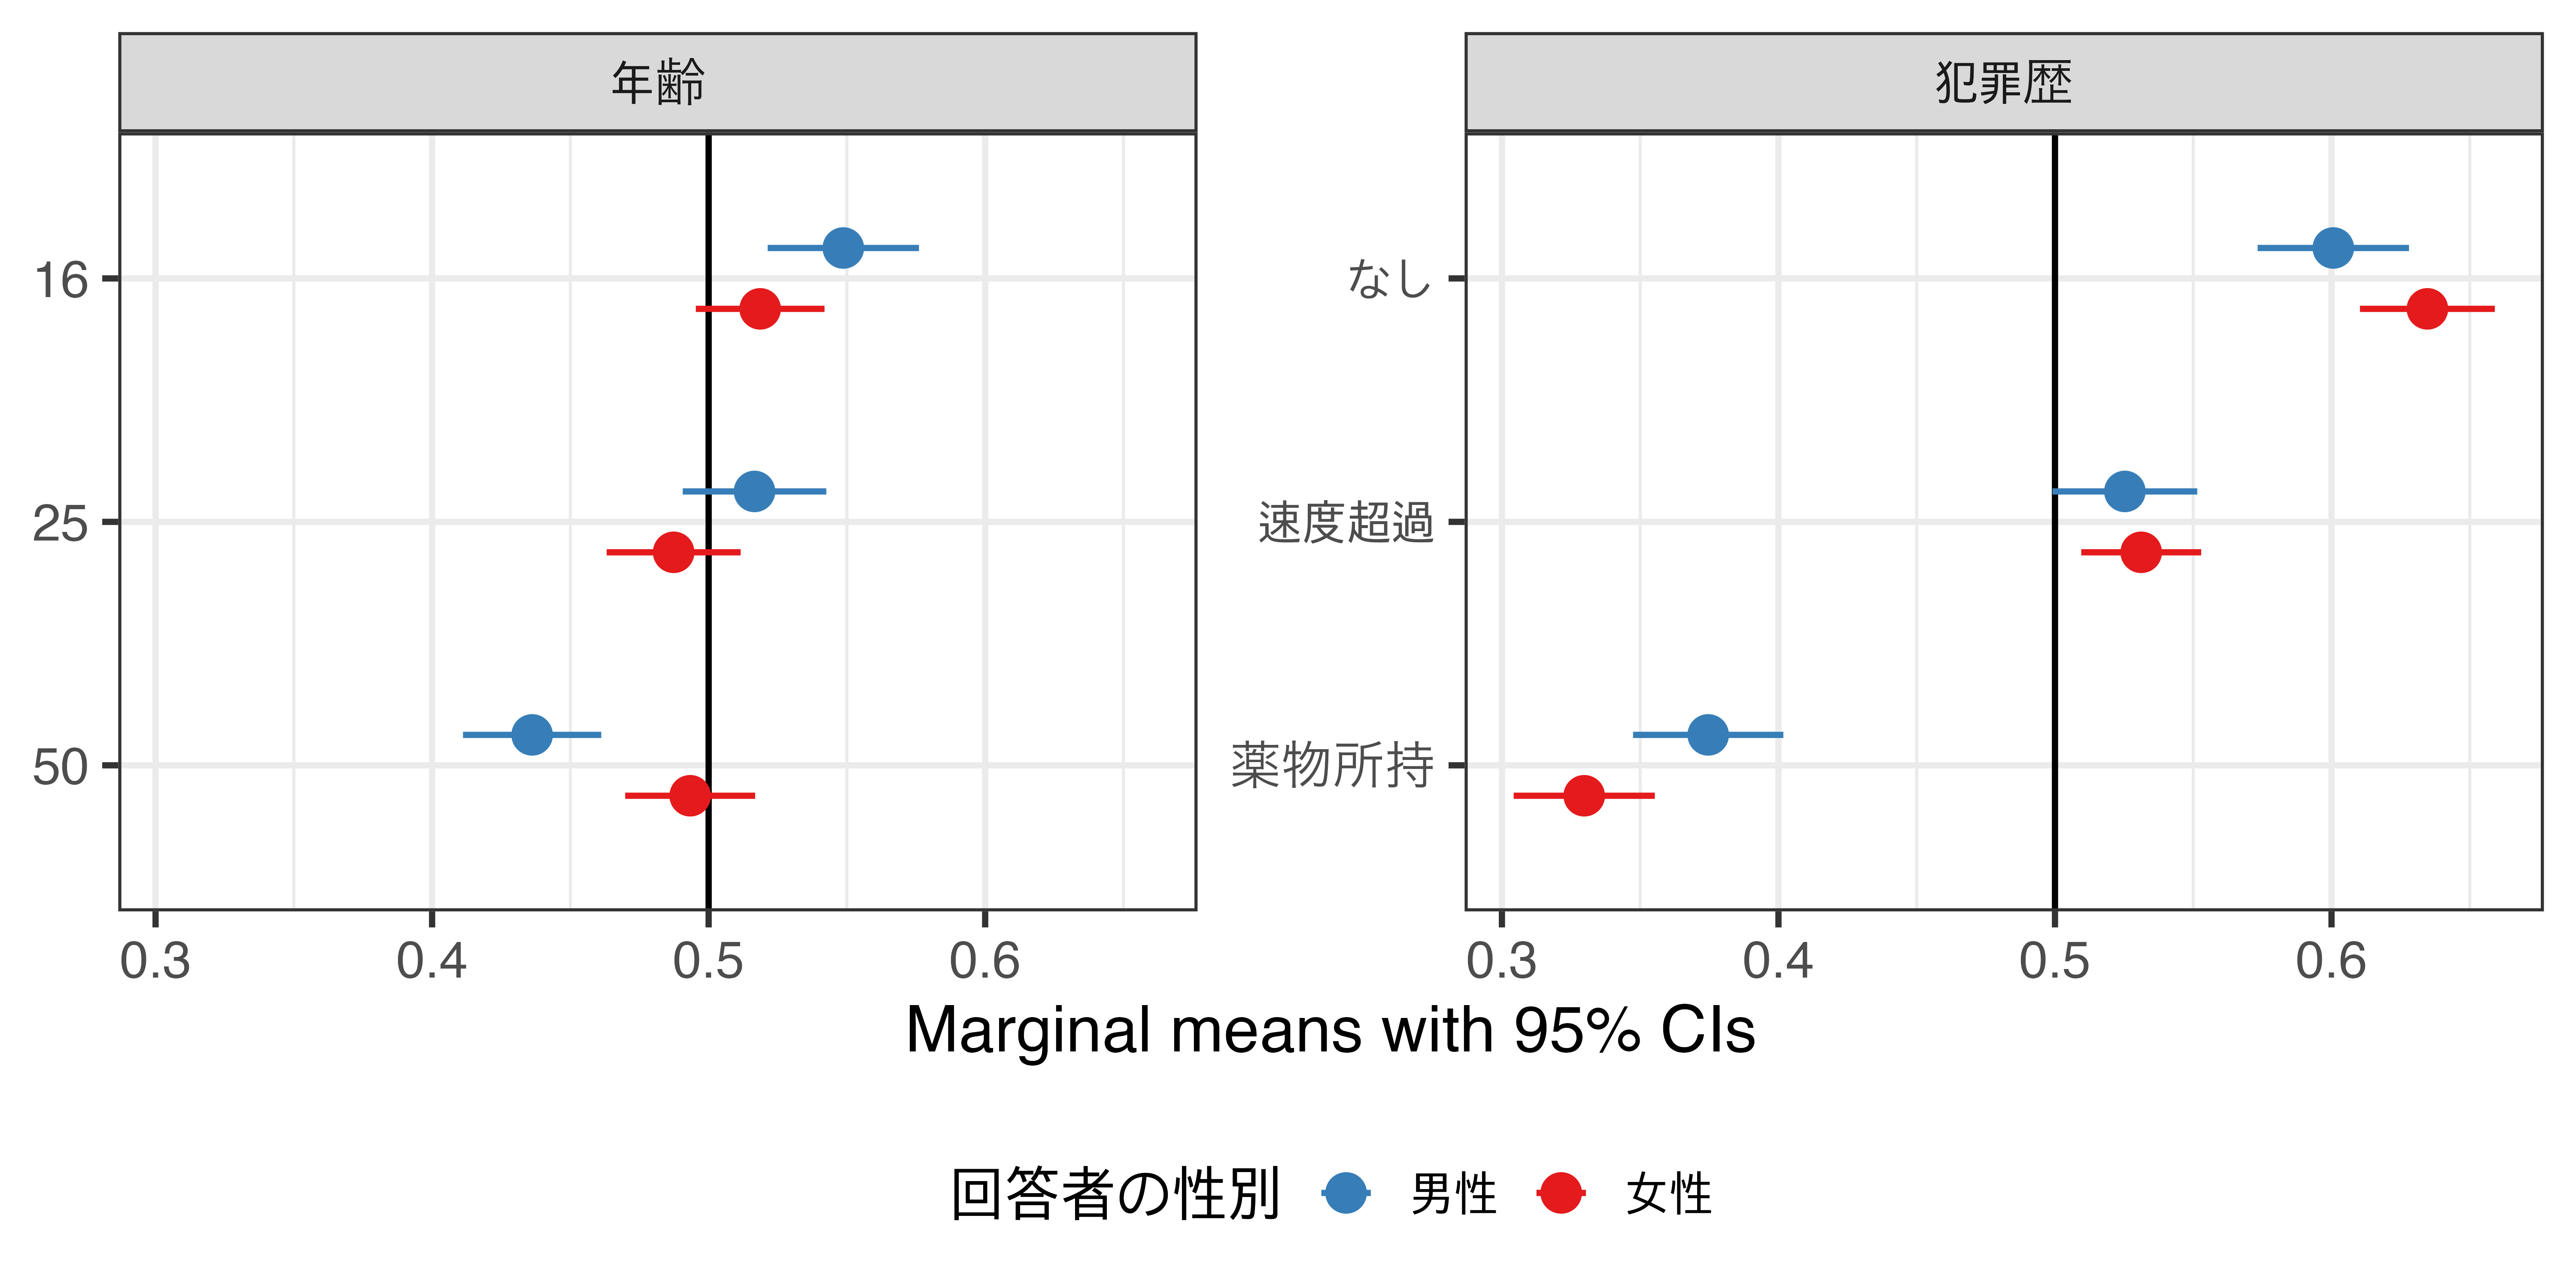
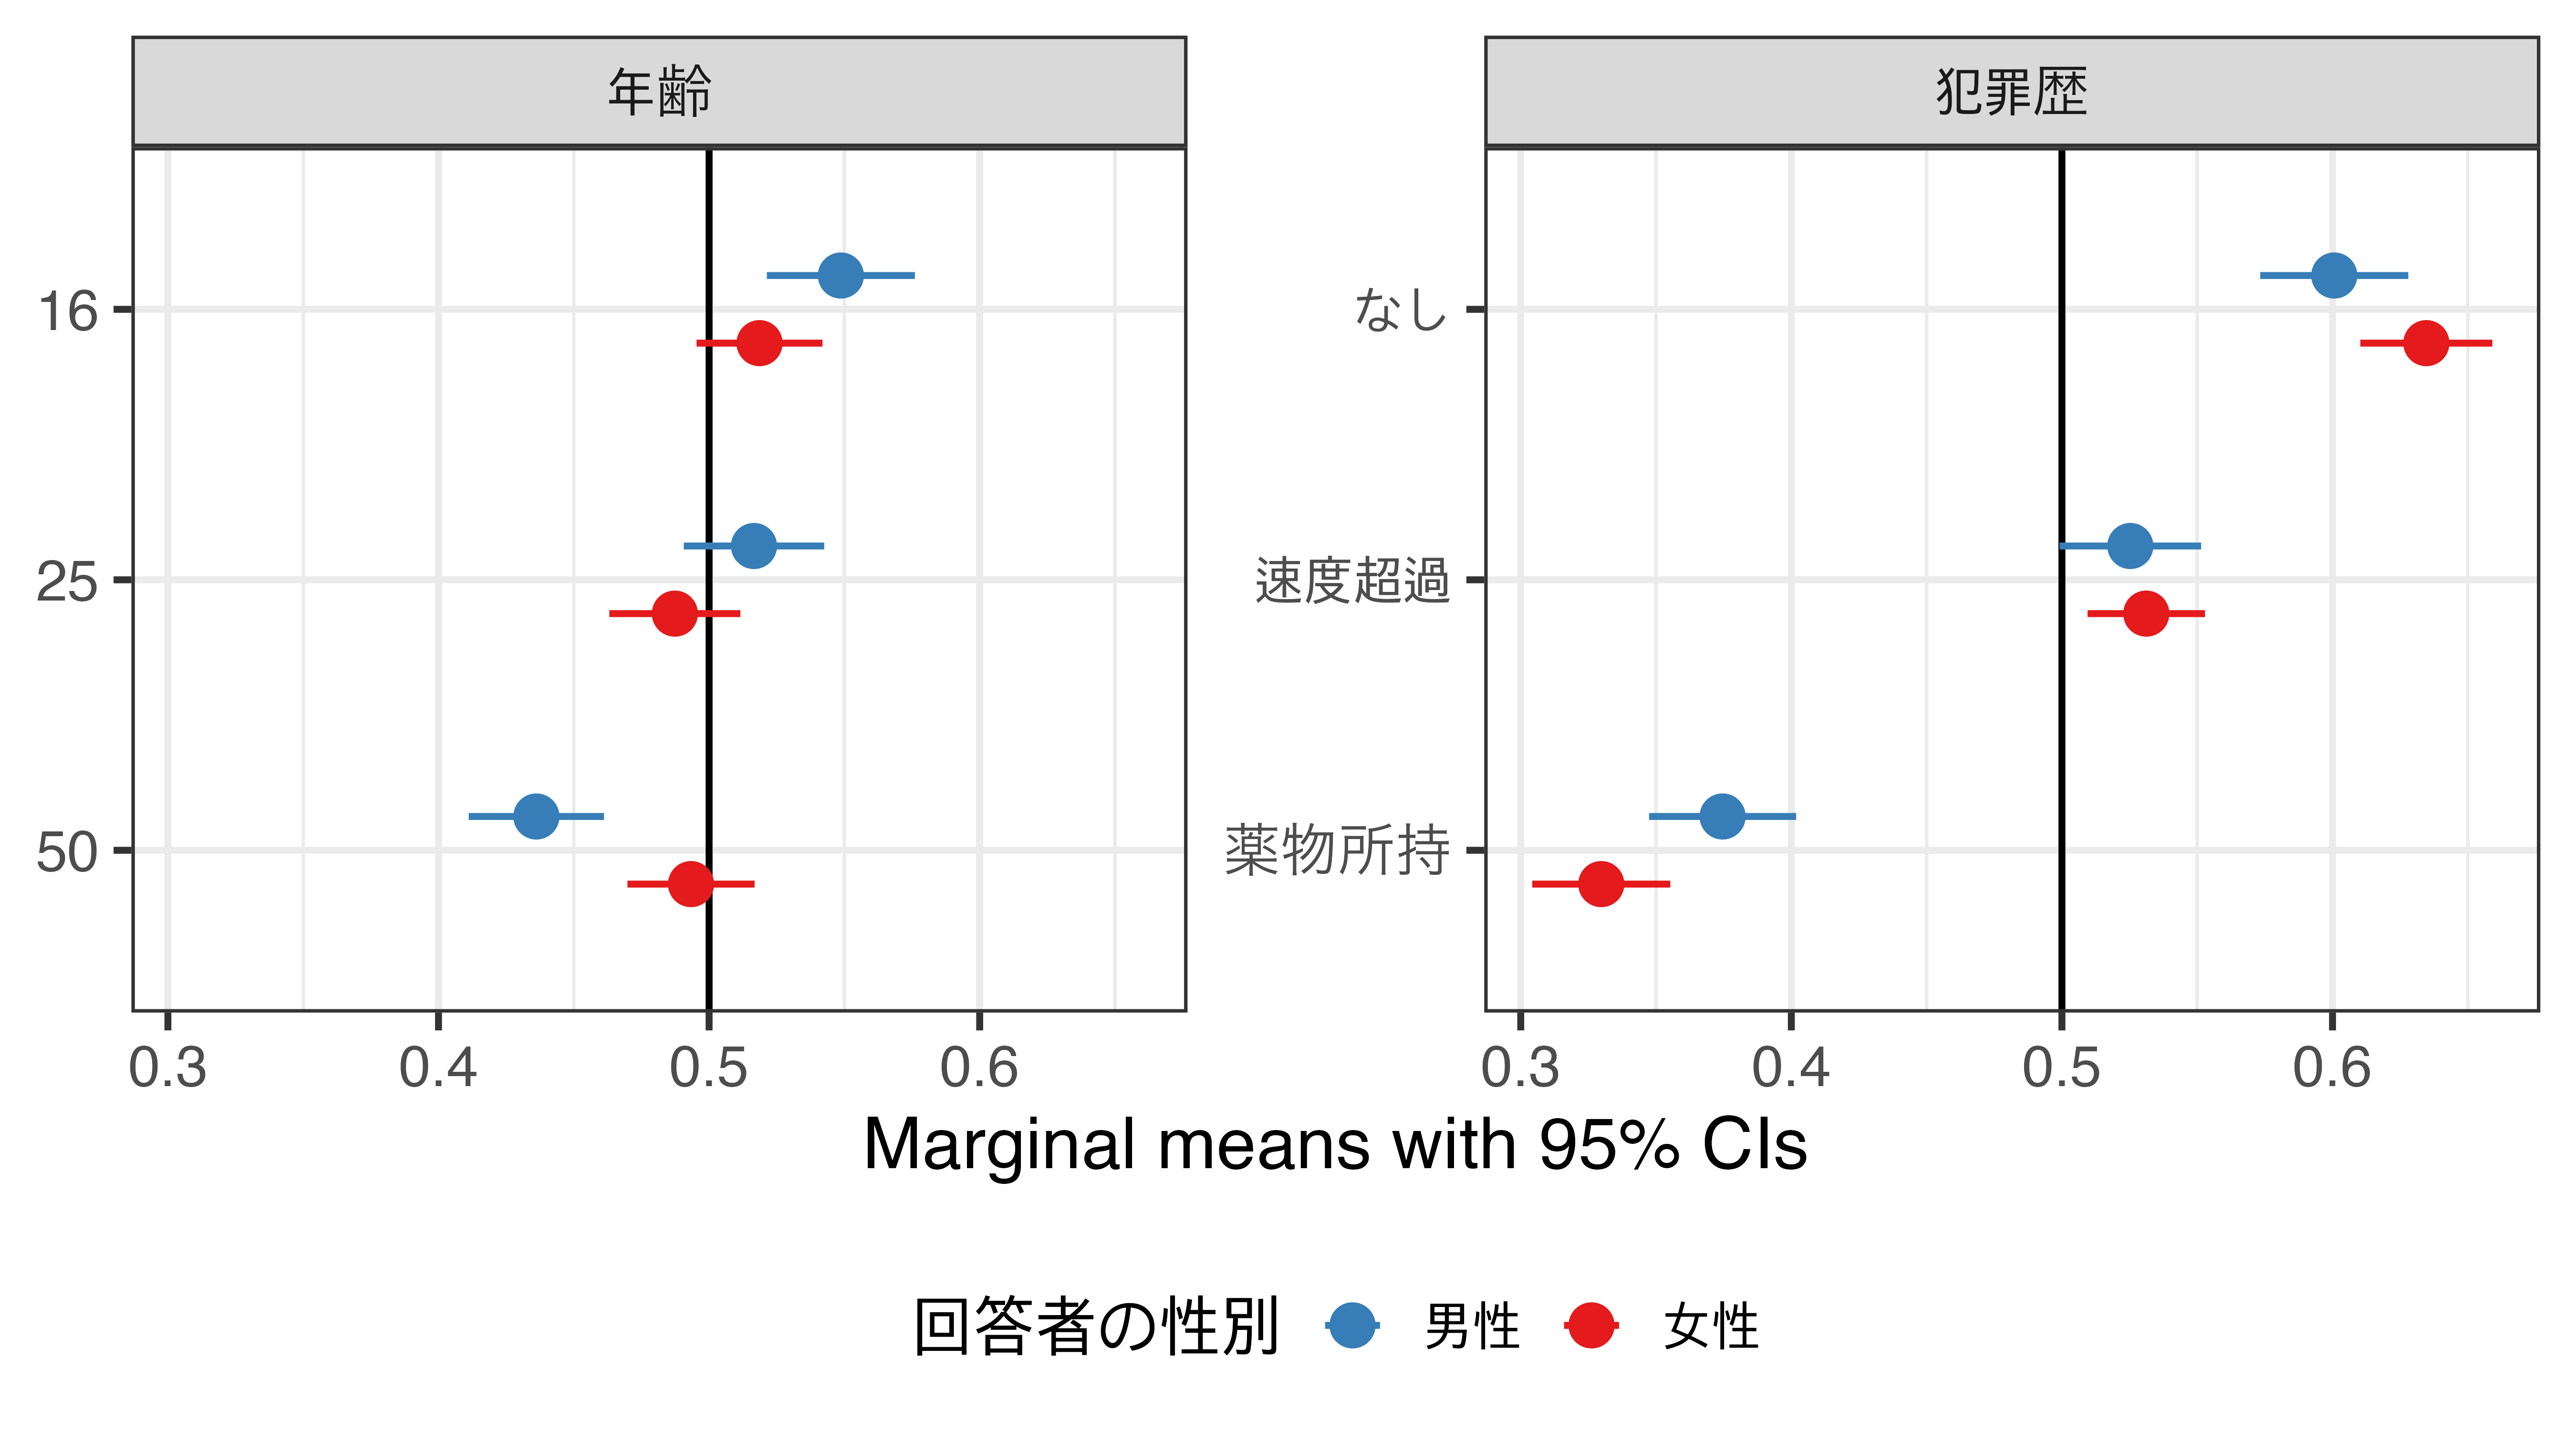
no message

diff --git a/2026/02_JAES/index.html b/2026/02_JAES/index.html
@@ -208,7 +208,7 @@ SONG Jaehyun
 <ul>
 <li>「良い移民」と「悪い移民」を区別する象徴的な境界<span class="small">（symbolic boundary）</span>設定<span class="small">（Begum 2025）</span>
 </li>
-<li>定住ラティンクスは、自らの社会的地位を守るために新規の流入者から距離を置く<span class="small">（Abrajano and Hajnal 2015）</span>
+<li>定住ラティンクスは、自らの社会的地位を守るために新規の移民から距離を置く<span class="small">（Abrajano and Hajnal 2015）</span>
 </li>
 </ul>
 </li>
@@ -230,7 +230,7 @@ SONG Jaehyun
 </blockquote>
 <p><strong>文化的脅威</strong><span class="small">（Bromo 2025; Newman 2013; Sides and Citrin 2007）</span></p>
 <ul>
-<li>ラテン系市民<span class="small">（特に米国のラテン系コミュニティにおける文化的主流を構成するメキシコ系）</span>は、出身国が異なる新規の流入者を、自らの集団の地位や文化的安定に対する脅威とみなす可能性</li>
+<li>ラテン系市民<span class="small">（特に米国のラテン系コミュニティにおける文化的主流を構成するメキシコ系）</span>は、出身国が異なる新規の移民を、自らの集団の地位や文化的安定に対する脅威とみなす可能性</li>
 </ul>
 <blockquote>
 <p><strong>H2：</strong>ラテン系市民は、エルサルバドル系やベネズエラ系の移民よりも、メキシコ系の移民に対してより同情<span class="small">（支持）</span>しやすい</p>
@@ -270,7 +270,7 @@ SONG Jaehyun
 <li>
 <strong>2022年〜の「移民危機」：</strong> 5万人以上の移民<span class="small">（主にベネズエラ）</span>が、テキサス州などから移送
 <ul>
-<li>大規模な流入 <span class="math inline">\(\rightarrow\)</span> 市の深刻な財政負担 &amp; 治安への懸念</li>
+<li>大規模な移民急増 <span class="math inline">\(\rightarrow\)</span> 市の深刻な財政負担 &amp; 治安への懸念</li>
 </ul>
 </li>
 </ul>
@@ -395,7 +395,7 @@ SONG Jaehyun
 </li>
 </ul>
 
-<img data-src="jaes_slide_files/figure-revealjs/unnamed-chunk-5-1.png" class="quarto-figure quarto-figure-center r-stretch" width="3000"></section><section id="分析結果サブグループ分析年齢" class="slide level2"><h2>分析結果：サブグループ分析（年齢）</h2>
+<img data-src="jaes_slide_files/figure-revealjs/unnamed-chunk-5-1.png" class="quarto-figure quarto-figure-center r-stretch" width="2700"></section><section id="分析結果サブグループ分析年齢" class="slide level2"><h2>分析結果：サブグループ分析（年齢）</h2>
 <ul>
 <li>
 <strong>出身国：</strong> 若年層の回答者は高齢層の回答者に比べ、メキシコ &gt; ベネズエラ</li>
@@ -466,7 +466,7 @@ SONG Jaehyun
 <li>
 <strong>集団内部の断片化<span class="small">（Intra-ethnic Fragmentation）</span>の提示</strong>
 <ul>
-<li>ラティンクスの態度は一枚岩ではなく、大規模かつ急速な移民流入は、連帯を侵食し、身内の中に「良い移民／悪い移民」の分断線を引く引き金へ</li>
+<li>ラティンクスの態度は一枚岩ではなく、大規模かつ急速な移民急増は、連帯を侵食し、身内の中に「良い移民／悪い移民」の分断線を引く引き金へ</li>
 <li>リベラルで親移民的な聖域都市シカゴ<span class="small">（Least-likely case）</span>でこの現象が確認されたことは、これが全米規模の潮流である可能性を強く示唆</li>
 </ul>
 </li>